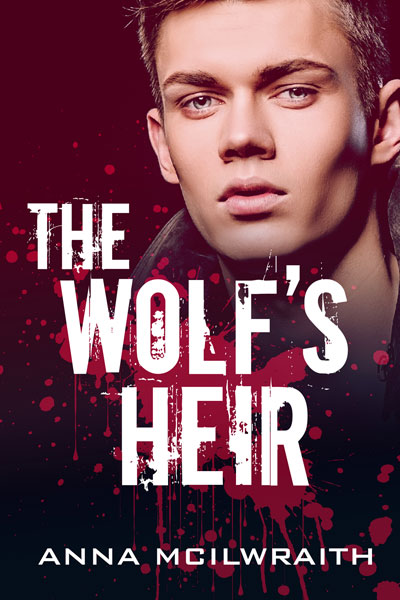
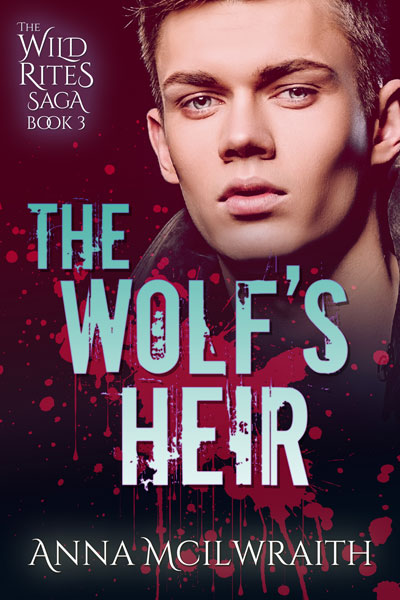
Update Caller of the Blood to The Wild Rites Saga

Changed region(s): [[0.06, 0.33, 0.87, 0.84], [0.06, 0.87, 0.93, 0.96], [0.0, 0.0, 0.27, 0.24]]

diff --git a/_includes/header.html b/_includes/header.html
@@ -45,7 +45,7 @@
           <img src="{{ site.baseurl }}/assets/images/site_brand_title.svg" alt="{{ site.name }}" title="{{ site.name }}" />  
         </a>
         <p class="site-title-subtitle">
-        Author of <a href="/books/caller-of-the-blood/">Caller&nbsp;of&nbsp;the&nbsp;Blood</a> and the <span class="grouping-wayward-heart"><a href="/books/wayward-heart/"><span class="lettering-wayward-heart">Wayward Heart</span></a> series</span>
+        Author of <a href="/books/the-wild-rites-saga/">The&nbsp;Wild&nbsp;Rites&nbsp;Saga</a> and the <span class="grouping-wayward-heart"><a href="/books/wayward-heart/"><span class="lettering-wayward-heart">Wayward Heart</span></a> series</span>
         </p>
       </div>
 			<div class="header-books">

diff --git a/index.html b/index.html
@@ -6,7 +6,7 @@ hero_full_res: book_cotb_01_tjk_full.jpg
 
 <div class="home">
 
-  <h1 class="page-heading">Latest Update from Anna:</h1>
+  <h1 class="page-heading">Latest updates from Anna:</h1>
   <div id="tumblrBlog">
   </div>
   <!--

diff --git a/books_the_serpent_priest.md b/books_the_serpent_priest.md
@@ -1,7 +1,7 @@
 ---
 layout: book_detail
 title: The Serpent Priest
-sub_title: <a href="/books/caller-of-the-blood/">Caller of the Blood</a> · Book 4
+sub_title: <a href="/books/the-wild-rites-saga/">The Wild Rites Saga</a> · Book 4
 permalink: /books/the-serpent-priest/
 show_in_books: true
 show_in_header: true

diff --git a/books_the_jackal_prince.md b/books_the_jackal_prince.md
@@ -1,7 +1,7 @@
 ---
 layout: book_detail
 title: The Jackal Prince
-sub_title: <a href="/books/caller-of-the-blood/">Caller of the Blood</a> · Book 2
+sub_title: <a href="/books/the-wild-rites-saga/">The Wild Rites Saga</a> · Book 2
 permalink: /books/the-jackal-prince/
 show_in_books: true
 show_in_header: true

diff --git a/books_the_wolfs_heir.md b/books_the_wolfs_heir.md
@@ -1,7 +1,7 @@
 ---
 layout: book_detail
 title: The Wolf’s Heir
-sub_title: <a href="/books/caller-of-the-blood/">Caller of the Blood</a> · Book 3
+sub_title: <a href="/books/the-wild-rites-saga/">The Wild Rites Saga</a> · Book 3
 permalink: /books/the-wolfs-heir/
 show_in_books: true
 show_in_header: true

diff --git a/books_the_jaguar_king.md b/books_the_jaguar_king.md
@@ -1,7 +1,7 @@
 ---
 layout: book_detail
 title: The Jaguar King
-sub_title: <a href="/books/caller-of-the-blood/">Caller of the Blood</a> · Book 1
+sub_title: <a href="/books/the-wild-rites-saga/">The Wild Rites Saga</a> · Book 1
 permalink: /books/the-jaguar-king/
 show_in_books: true
 show_in_header: true

diff --git a/books_wild_rites_saga.md b/books_wild_rites_saga.md
@@ -3,7 +3,8 @@ layout: book_series
 id: cotb
 title: The Wild Rites Saga
 sub_title: <a href="#series-books">View books in series</a>
-permalink: /books/caller-of-the-blood/
+permalink: /books/the-wild-rites-saga/
+show_in_books: true
 page_rank: 0
 is_parent: true
 show_series_book_list: true
